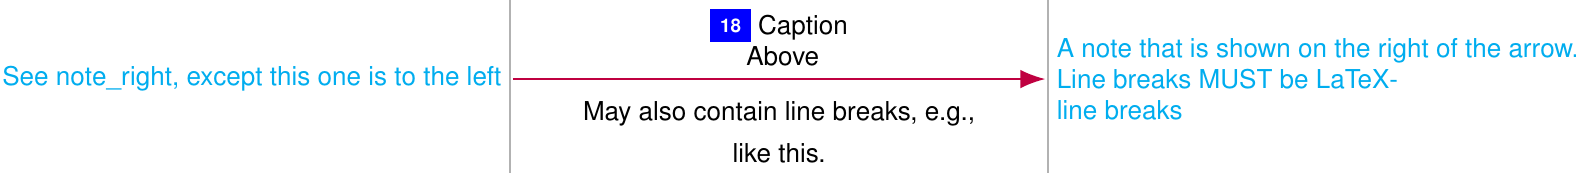
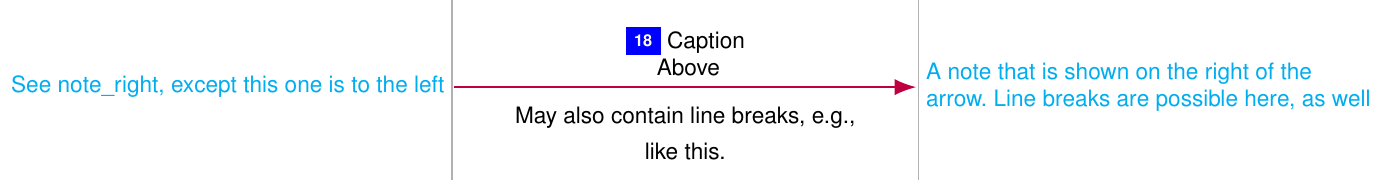
Update docs

Changed region(s): [[0.0, 0.0289, 1.0, 0.6936], [0.3734, 0.578, 0.6223, 0.7225], [0.4667, 0.7803, 0.5289, 0.9538]]

diff --git a/docs/README.md b/docs/README.md
@@ -133,7 +133,9 @@ Represented as arrows between two parties' lifelines.
   style: ''  # Additional TikZ style to apply to arrow
   skip_number: false  # Default: false. If true, do not assign a number to this step
   draw_contour: true # Default: true. Draw a white contour around all text belonging to this step
-  note_right: 'A note that is shown on the right of the arrow.\\Line breaks MUST be LaTeX-\\line breaks'
+  note_right: |
+    A note that is shown on the right of the
+    arrow. Line breaks are possible here, as well
   note_left: 'See note\_right, except this one is to the left'
   note_style: 'cyan' # Additional TikZ style applied to note_right/note_left
 ```
